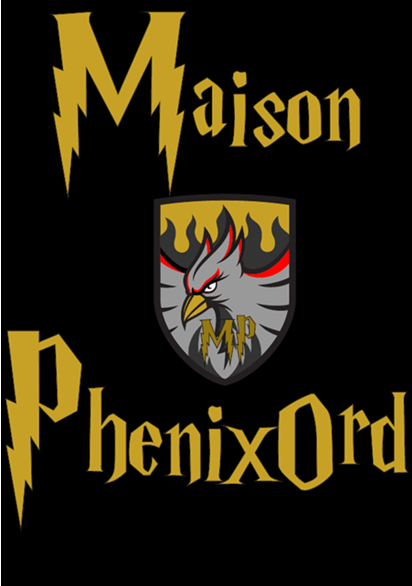
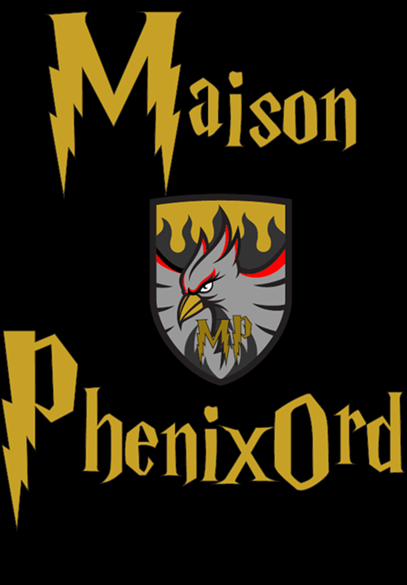
fond noir et correction d'une ligne verticale de pixels blancs

diff --git a/projects/coupeDesMaisons/src/styles.scss b/projects/coupeDesMaisons/src/styles.scss
@@ -1,7 +1,7 @@
 @import "~@angular/material/prebuilt-themes/indigo-pink.css";
 
 /** Pour que le html et le body soit bien 100% de la hauteur */
-html, body { height: 100%; }
+html, body { height: 100%; background-color: black; }
 
 /** Pour disposer de la classe utilitaire de bootstrap indisponible */
 .text-right { text-align: right; }
